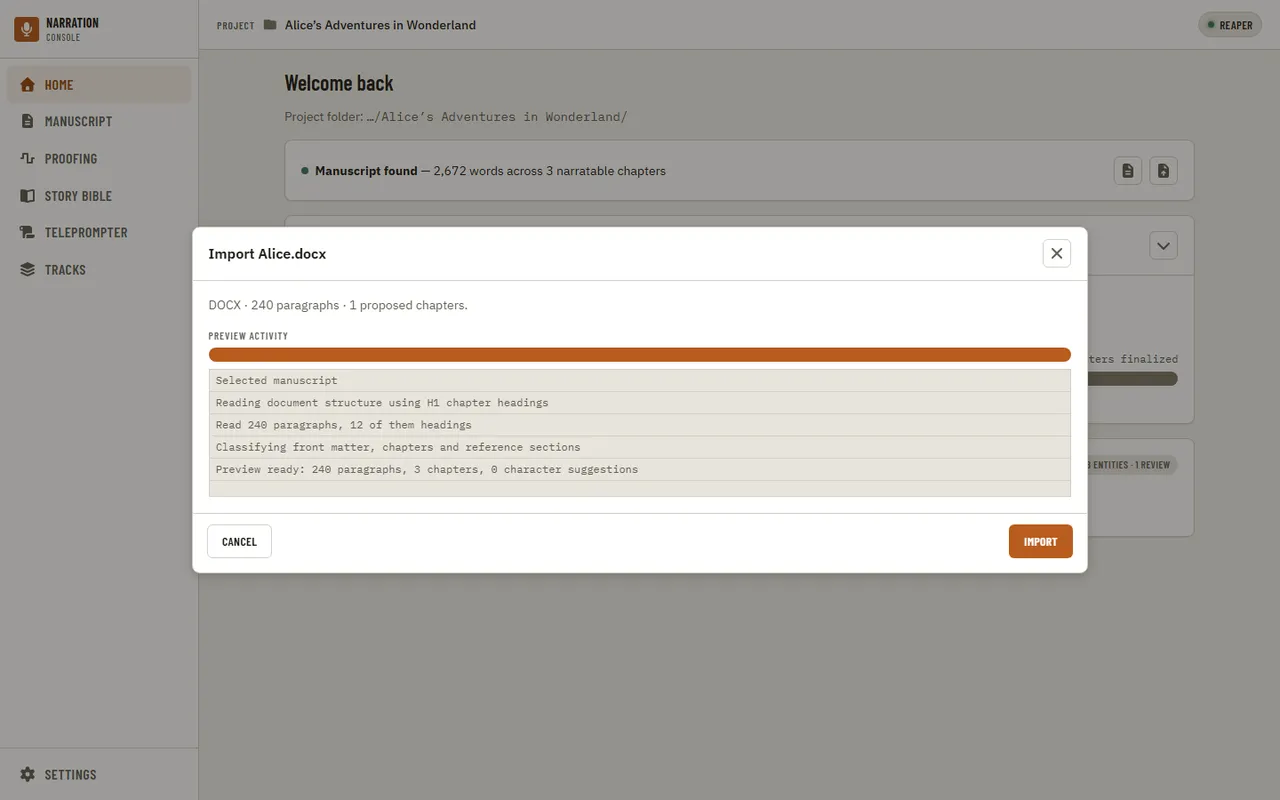
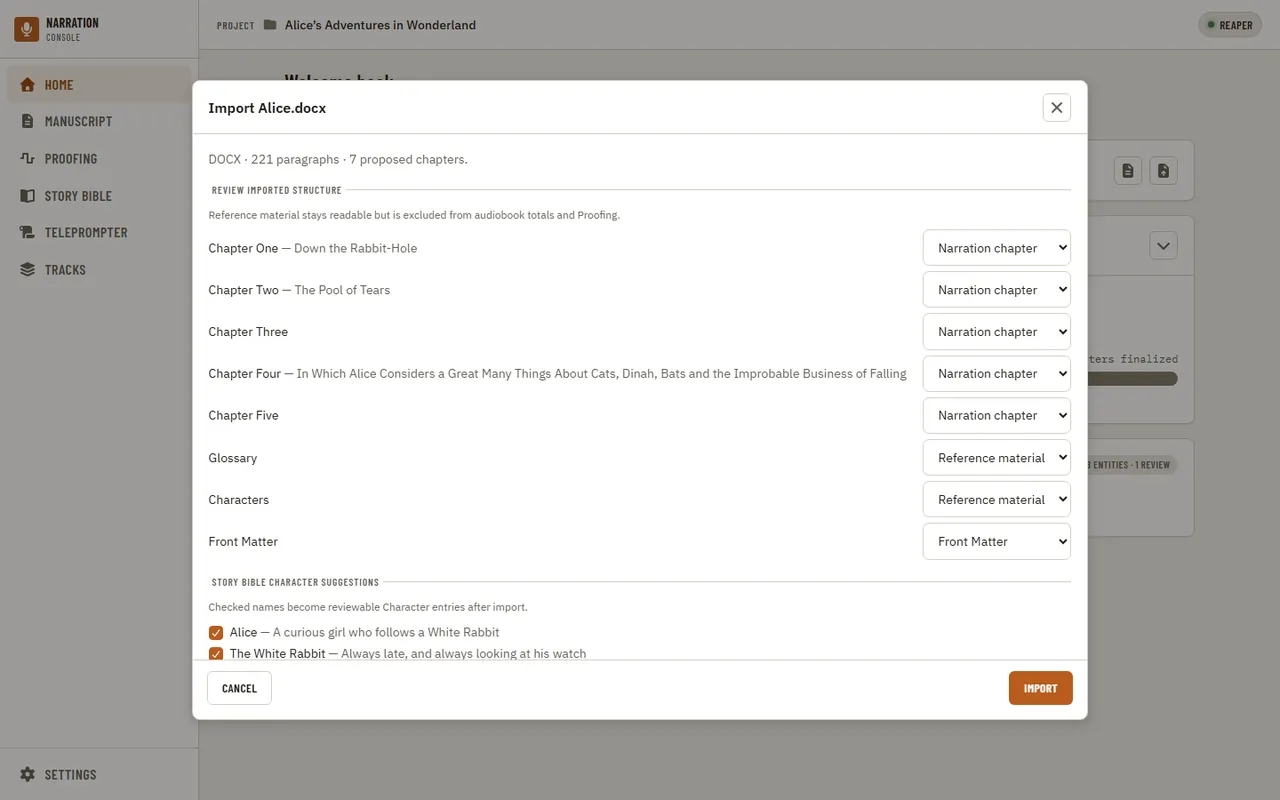
feat: show each chapter's subtitle in the import review (import review p2)
The review listed "Chapter One" for a heading that reads "CHAPTER ONE / Bad Ideas Look
Great in Neon", so the narrator could not confirm the title and subtitle split.
DraftSection now carries the subtitle of the first paragraph of the section, which is
what the written chapter gets, and the review shows it after the title, in the title
attribute and in the accessible name of the row's select.

The field is additive (omitted when empty), so hostAPIVersion is unchanged. A long
subtitle pushed the select out of the dialog because a fieldset does not shrink below
its content: both fieldsets are now min-w-0 so the row truncates.

Amends Phase 5 of the briefs PRD: display ships here, only the override stays gated.

diff --git a/apps/ui/src/components/home/ImportReview.tsx b/apps/ui/src/components/home/ImportReview.tsx
@@ -1,4 +1,4 @@
-import type { ManuscriptContentKind, ManuscriptImportPreview, ManuscriptImportSelection, WorkJob } from '../../types';
+import type { ManuscriptContentKind, ManuscriptImportPreview, ManuscriptImportSection, ManuscriptImportSelection, WorkJob } from '../../types';
 import { Checkbox } from '../primitives/Checkbox';
 import { Select } from '../primitives/Select';
 
@@ -10,6 +10,11 @@ const SECTION_KIND_OPTIONS = [
 
 const LABEL_CLASSES = "font-['Barlow_Condensed',sans-serif] text-[0.72rem] font-semibold tracking-[0.08em] text-[var(--text-muted)] uppercase";
 const LEGEND_CLASSES = `px-1 ${LABEL_CLASSES}`;
+
+// The title and, when the heading had one, the subtitle, the way the reader writes them ("Chapter One — Down the Rabbit-Hole").
+function sectionName(section: ManuscriptImportSection): string {
+  return section.subtitle ? `${section.title} — ${section.subtitle}` : section.title;
+}
 
 type ImportReviewProps = {
   preview: ManuscriptImportPreview;
@@ -44,7 +49,7 @@ export function ImportReview({ preview, job, selection, onSelectionChange, headi
       )}
       {preview.format === 'pdf' && preview.chapterTitles.length > 0 && <p className="mt-3 text-xs">Detected chapters: {preview.chapterTitles.join(' · ')}</p>}
       {sections.length > 0 && (
-        <fieldset className="mt-4 border-t pt-3" style={{ borderColor: 'var(--border)' }}>
+        <fieldset className="mt-4 min-w-0 border-t pt-3" style={{ borderColor: 'var(--border)' }}>
           <legend className={LEGEND_CLASSES}>Review imported structure</legend>
           <p className="mb-2 text-xs" style={{ color: 'var(--text-muted)' }}>
             Reference material stays readable but is excluded from audiobook totals and Proofing.
@@ -52,9 +57,12 @@ export function ImportReview({ preview, job, selection, onSelectionChange, headi
           <div className="space-y-1.5">
             {sections.map((section) => (
               <label key={section.id} className="flex items-center justify-between gap-3 text-sm">
-                <span className="min-w-0 truncate">{section.title}</span>
+                <span className="min-w-0 truncate" title={sectionName(section)}>
+                  {section.title}
+                  {section.subtitle && <span style={{ color: 'var(--text-muted)' }}> — {section.subtitle}</span>}
+                </span>
                 <Select
-                  label={`${section.title} content type`}
+                  label={`${sectionName(section)} content type`}
                   className="flex-none"
                   value={selection.sectionKinds?.[section.id] ?? section.contentKind}
                   options={SECTION_KIND_OPTIONS}
@@ -68,7 +76,7 @@ export function ImportReview({ preview, job, selection, onSelectionChange, headi
         </fieldset>
       )}
       {candidates.length > 0 && (
-        <fieldset className="mt-4 border-t pt-3" style={{ borderColor: 'var(--border)' }}>
+        <fieldset className="mt-4 min-w-0 border-t pt-3" style={{ borderColor: 'var(--border)' }}>
           <legend className={LEGEND_CLASSES}>Story Bible character suggestions</legend>
           <p className="mb-2 text-xs" style={{ color: 'var(--text-muted)' }}>
             Checked names become reviewable Character entries after import.

diff --git a/apps/ui/src/components/home/Home.test.tsx b/apps/ui/src/components/home/Home.test.tsx
@@ -33,7 +33,7 @@ describe('the import review dialog, as the narrator meets it', () => {
     const { dialog } = await openReview();
     expect(dialog.getByText(/^DOCX · 221 paragraphs · /)).toBeTruthy();
     const kinds = (title: string) => (dialog.getByRole('combobox', { name: `${title} content type` }) as HTMLSelectElement).value;
-    expect(kinds('Chapter One')).toBe('narration');
+    expect(kinds('Chapter One — Down the Rabbit-Hole')).toBe('narration');
     expect(kinds('Characters')).toBe('reference');
     expect(kinds('Glossary')).toBe('reference');
     expect(kinds('Front Matter')).toBe('opening');
@@ -42,7 +42,7 @@ describe('the import review dialog, as the narrator meets it', () => {
 
   it('offers the three kinds a section can be, by their names in the reader', async () => {
     const { dialog } = await openReview();
-    const options = within(dialog.getByRole('combobox', { name: 'Chapter One content type' })).getAllByRole('option');
+    const options = within(dialog.getByRole('combobox', { name: 'Chapter One — Down the Rabbit-Hole content type' })).getAllByRole('option');
     expect(options.map((option) => option.textContent)).toEqual(['Narration chapter', 'Front Matter', 'Reference material']);
   });
 
@@ -139,5 +139,26 @@ describe('the import review dialog, as the narrator meets it', () => {
     fireEvent.click(dialog.getByRole('button', { name: 'Cancel' }));
     await waitFor(() => expect(screen.queryByRole('alertdialog')).toBeNull());
     expect(cancel).toHaveBeenCalledWith('mock-import');
+  });
+});
+
+describe('the subtitle of each chapter in the review', () => {
+  it('shows the subtitle of a chapter after its title, and only its title when the heading had none', async () => {
+    const { dialog } = await openReview();
+    expect(dialog.getByText('Chapter One').textContent).toBe('Chapter One — Down the Rabbit-Hole');
+    expect(dialog.getByText('Chapter Two').textContent).toBe('Chapter Two — The Pool of Tears');
+    expect(dialog.getByText('Chapter Three').textContent).toBe('Chapter Three');
+  });
+
+  it('keeps the whole title and subtitle in the title attribute of the row, for a name cut short', async () => {
+    const { dialog } = await openReview();
+    expect(dialog.getByText('Chapter One').getAttribute('title')).toBe('Chapter One — Down the Rabbit-Hole');
+    expect(dialog.getByText('Chapter Three').getAttribute('title')).toBe('Chapter Three');
+  });
+
+  it('names the select of a row for the subtitle too, so two chapters with one title can be told apart', async () => {
+    const { dialog } = await openReview();
+    expect(dialog.getByRole('combobox', { name: 'Chapter Two — The Pool of Tears content type' })).toBeTruthy();
+    expect(dialog.getByRole('combobox', { name: 'Chapter Three content type' })).toBeTruthy();
   });
 });

diff --git a/apps/ui/src/api/mockImportPreview.ts b/apps/ui/src/api/mockImportPreview.ts
@@ -7,10 +7,16 @@ export type MockImportKind = 'docx' | 'markdown';
 // are in the order the host sends them: the titles the parser read come first, in document order, and "Front Matter" (the
 // paragraphs before the first heading) is added after them, so it is last (apps/desktop/internal/importer/model.go, newDraft).
 const SECTIONS: readonly ManuscriptImportSection[] = [
-  { id: 'section-0001', title: 'Chapter One', contentKind: 'narration', paragraphCount: 42 },
-  { id: 'section-0002', title: 'Chapter Two', contentKind: 'narration', paragraphCount: 38 },
+  { id: 'section-0001', title: 'Chapter One', subtitle: 'Down the Rabbit-Hole', contentKind: 'narration', paragraphCount: 42 },
+  { id: 'section-0002', title: 'Chapter Two', subtitle: 'The Pool of Tears', contentKind: 'narration', paragraphCount: 38 },
   { id: 'section-0003', title: 'Chapter Three', contentKind: 'narration', paragraphCount: 35 },
-  { id: 'section-0004', title: 'Chapter Four', contentKind: 'narration', paragraphCount: 40 },
+  {
+    id: 'section-0004',
+    title: 'Chapter Four',
+    subtitle: 'In Which Alice Considers a Great Many Things About Cats, Dinah, Bats and the Improbable Business of Falling',
+    contentKind: 'narration',
+    paragraphCount: 40,
+  },
   { id: 'section-0005', title: 'Chapter Five', contentKind: 'narration', paragraphCount: 45 },
   { id: 'section-0006', title: 'Glossary', contentKind: 'reference', paragraphCount: 12 },
   { id: 'section-0007', title: 'Characters', contentKind: 'reference', paragraphCount: 6 },

diff --git a/apps/ui/src/api/contracts/manuscript.ts b/apps/ui/src/api/contracts/manuscript.ts
@@ -54,6 +54,8 @@ export type SearchHit = { chapter: string; chapterId?: string; paragraph: number
 export type ManuscriptImportSection = {
   id: string;
   title: string;
+  /** What follows the title in the heading ("CHAPTER ONE / Bad Ideas..."): the first paragraph's, which is what the written chapter gets. Omitted when there is none. */
+  subtitle?: string;
   contentKind: ManuscriptContentKind;
   paragraphCount: number;
 };

diff --git a/apps/ui/src/api/schemas/manuscript.ts b/apps/ui/src/api/schemas/manuscript.ts
@@ -100,6 +100,7 @@ export const readerSchema = z.object({
 const importSectionSchema = z.object({
   id: z.string(),
   title: z.string(),
+  subtitle: z.string().optional(),
   contentKind: contentKindSchema,
   paragraphCount: z.number(),
 }) satisfies z.ZodType<ManuscriptImportSection>;

diff --git a/apps/desktop/internal/importer/model_test.go b/apps/desktop/internal/importer/model_test.go
@@ -1,8 +1,10 @@
 package importer
 
 import (
+	"encoding/json"
 	"os"
 	"path/filepath"
+	"strings"
 	"testing"
 )
 
@@ -79,5 +81,61 @@ func TestMarkdownContentsHeadingGetsItsOwnGroup(t *testing.T) {
 	}
 	if len(draft.ChapterTitles) != 2 {
 		t.Fatalf("expected Contents to be excluded from chapter titles, got %#v", draft.ChapterTitles)
+	}
+}
+
+func sectionNamed(t *testing.T, draft Draft, title string) DraftSection {
+	t.Helper()
+	for _, section := range draft.Sections {
+		if section.Title == title {
+			return section
+		}
+	}
+	t.Fatalf("no section %q in %#v", title, draft.Sections)
+	return DraftSection{}
+}
+
+func subtitled(chapter, subtitle, text string, index int) Paragraph {
+	return Paragraph{Chapter: chapter, ChapterSubtitle: &subtitle, Text: text, SourceIndex: index}
+}
+
+func TestNewDraftSectionSubtitleIsTheFirstParagraphsSubtitleAsTheCommitReadsIt(t *testing.T) {
+	paragraphs := []Paragraph{
+		subtitled("Chapter One", "Down the Rabbit-Hole", "First.", 0),
+		{Chapter: "Chapter Two", Text: "No subtitle here.", SourceIndex: 1},
+		// A title that repeats merges into the first section, and the first subtitle wins, as it does when the chapter is written.
+		subtitled("Chapter One", "A Later Subtitle", "Second.", 2),
+		// The first paragraph has none and a later one does: the chapter is written from the first paragraph, so it has none.
+		{Chapter: "Chapter Three", Text: "Plain.", SourceIndex: 3},
+		subtitled("Chapter Three", "The Pool of Tears", "Later.", 4),
+	}
+	draft, err := newDraft("docx", "test.docx", paragraphs, []string{"Chapter One", "Chapter Two", "Chapter Three", "Chapter Four"})
+	if err != nil {
+		t.Fatal(err)
+	}
+	for title, want := range map[string]string{
+		"Chapter One":   "Down the Rabbit-Hole",
+		"Chapter Two":   "",
+		"Chapter Three": "",
+		// A heading with no paragraphs under it has nothing to take a subtitle from.
+		"Chapter Four": "",
+	} {
+		if got := sectionNamed(t, draft, title).Subtitle; got != want {
+			t.Errorf("section %q subtitle = %q, want %q", title, got, want)
+		}
+	}
+}
+
+func TestNewDraftSectionWithoutSubtitleSendsNoSubtitleField(t *testing.T) {
+	draft, err := newDraft("docx", "test.docx", []Paragraph{{Chapter: "Chapter One", Text: "Text.", SourceIndex: 0}}, []string{"Chapter One"})
+	if err != nil {
+		t.Fatal(err)
+	}
+	encoded, err := json.Marshal(draft.Sections[0])
+	if err != nil {
+		t.Fatal(err)
+	}
+	if strings.Contains(string(encoded), "subtitle") {
+		t.Fatalf("a section without a subtitle must not carry the field, got %s", encoded)
 	}
 }

diff --git a/apps/desktop/internal/importer/model.go b/apps/desktop/internal/importer/model.go
@@ -18,8 +18,11 @@ type Paragraph struct {
 }
 
 type DraftSection struct {
-	ID             string `json:"id"`
-	Title          string `json:"title"`
+	ID    string `json:"id"`
+	Title string `json:"title"`
+	// Subtitle is the first paragraph's chapter subtitle, the one the chapter takes when the manuscript is written
+	// (manuscript.canonicalize), so the review shows what the chapter will be called. Empty when the heading had none.
+	Subtitle       string `json:"subtitle,omitempty"`
 	ContentKind    string `json:"contentKind"`
 	ParagraphCount int    `json:"paragraphCount"`
 }
@@ -143,6 +146,19 @@ func characterLine(value string) (string, string, bool) {
 	return name, description, looksLikeName(name)
 }
 
+// firstSubtitle is the subtitle of the first of the given paragraphs, or "" when it has none or there are no paragraphs. It is what the
+// chapter takes when the manuscript is written (manuscript.canonicalize reads the paragraph that starts the chapter), so a repeated
+// title, which is merged into one section, shows the first heading's subtitle and a heading with no text under it has none.
+func firstSubtitle(paragraphs []Paragraph, indexes []int) string {
+	if len(indexes) == 0 {
+		return ""
+	}
+	if subtitle := paragraphs[indexes[0]].ChapterSubtitle; subtitle != nil {
+		return *subtitle
+	}
+	return ""
+}
+
 func newDraft(format, sourceName string, paragraphs []Paragraph, titles []string) (Draft, error) {
 	if len(paragraphs) == 0 {
 		return Draft{}, &Error{"The manuscript has no readable text paragraphs."}
@@ -207,7 +223,7 @@ func newDraft(format, sourceName string, paragraphs []Paragraph, titles []string
 			}
 			candidates = append(candidates, CharacterCandidate{ID: fmt.Sprintf("candidate-%s-%03d", id, len(candidates)+1), Name: group.title, Description: description, SourceSectionID: id})
 		}
-		sections = append(sections, DraftSection{ID: id, Title: group.title, ContentKind: contentKind, ParagraphCount: len(group.indexes)})
+		sections = append(sections, DraftSection{ID: id, Title: group.title, Subtitle: firstSubtitle(paragraphs, group.indexes), ContentKind: contentKind, ParagraphCount: len(group.indexes)})
 	}
 	return Draft{Format: format, SourceName: sourceName, Paragraphs: paragraphs, Sections: sections, CharacterCandidates: candidates, ChapterTitles: titles}, nil
 }

diff --git a/apps/desktop/internal/manuscript/service_test.go b/apps/desktop/internal/manuscript/service_test.go
@@ -7,6 +7,7 @@ import (
 	"testing"
 	"time"
 
+	"github.com/countrymanprime/narration-utils/shell/internal/importer"
 	"github.com/countrymanprime/narration-utils/shell/internal/layout"
 )
 
@@ -168,5 +169,42 @@ func TestReplacementRequiresExplicitConfirmation(t *testing.T) {
 	job, err := service.Commit(second.ID, false, nil)
 	if err != nil || !job.RequiresReset {
 		t.Fatalf("expected reset confirmation, got %#v, %v", job, err)
+	}
+}
+
+// The review shows each section's subtitle, and the chapter is written from the paragraph that starts it: the two must agree, or the
+// review would promise a name the reader never shows. A repeated title merges, and the first heading's subtitle wins in both.
+func TestPreviewSectionSubtitlesAreTheSubtitlesTheWrittenChaptersGet(t *testing.T) {
+	project := t.TempDir()
+	source := filepath.Join(project, "book.md")
+	content := "# Chapter One<br>Down the Rabbit-Hole\nText.\n\n# Chapter Two\nMore.\n\n# Chapter One<br>A Later Subtitle\nLater.\n"
+	if err := os.WriteFile(source, []byte(content), 0o600); err != nil {
+		t.Fatal(err)
+	}
+	service := New(project)
+	job := service.Begin(source)
+	preview, err := service.Preview(job.ID, 1)
+	if err != nil {
+		t.Fatal(err)
+	}
+	sections, ok := preview.Preview["sections"].([]importer.DraftSection)
+	if !ok || len(sections) != 2 {
+		t.Fatalf("preview sections = %#v", preview.Preview["sections"])
+	}
+	if _, err := service.Commit(job.ID, false, nil); err != nil {
+		t.Fatal(err)
+	}
+	chapters, err := service.Chapters()
+	if err != nil {
+		t.Fatal(err)
+	}
+	for index, section := range sections {
+		written, _ := chapters[index]["subtitle"].(string)
+		if chapters[index]["title"] != section.Title || written != section.Subtitle {
+			t.Errorf("section %q shows subtitle %q but the chapter is written with %q", section.Title, section.Subtitle, written)
+		}
+	}
+	if sections[0].Subtitle != "Down the Rabbit-Hole" || sections[1].Subtitle != "" {
+		t.Errorf("subtitles = %q and %q", sections[0].Subtitle, sections[1].Subtitle)
 	}
 }

diff --git a/apps/desktop/internal/importer/docx_test.go b/apps/desktop/internal/importer/docx_test.go
@@ -193,3 +193,16 @@ func TestDocxCharacterStylesMapToFormatting(t *testing.T) {
 		t.Fatalf("spans = %#v", spans)
 	}
 }
+
+func TestDocxSoftBreakSubtitleReachesTheSectionForTheReview(t *testing.T) {
+	draft := importDocx(t, wordParagraph("Heading1", wordRun("CHAPTER ONE"), softBreak, wordRun("Bad Ideas Look Great in Neon"))+
+		wordParagraph("", wordRun("The first line."))+
+		wordParagraph("Heading1", wordRun("CHAPTER TWO"))+
+		wordParagraph("", wordRun("Another line.")))
+	if got := sectionNamed(t, draft, "CHAPTER ONE").Subtitle; got != "Bad Ideas Look Great in Neon" {
+		t.Fatalf("CHAPTER ONE subtitle = %q", got)
+	}
+	if got := sectionNamed(t, draft, "CHAPTER TWO").Subtitle; got != "" {
+		t.Fatalf("CHAPTER TWO has no subtitle, got %q", got)
+	}
+}

diff --git a/apps/desktop/internal/manuscript/contract_test.go b/apps/desktop/internal/manuscript/contract_test.go
@@ -10,7 +10,7 @@ import (
 
 // The payloads the manuscript bindings send to the UI (ADR 0069), pinned for its contract tests. They come from a real import of
 // a small Markdown file through the real service; random ids and timestamps are named or fixed by contractfile.Stabilize.
-const contractSource = "# Chapter One\nRoses are *red*,  \nviolets are **blue**.\n\nA second paragraph of the first chapter.\n\n# Chapter Two\nA short line in the second chapter.\n"
+const contractSource = "# Chapter One<br>Down the Rabbit-Hole\nRoses are *red*,  \nviolets are **blue**.\n\nA second paragraph of the first chapter.\n\n# Chapter Two\nA short line in the second chapter.\n"
 
 func pin(t *testing.T, name string, value any) {
 	t.Helper()

diff --git a/apps/desktop/internal/importer/markdown_test.go b/apps/desktop/internal/importer/markdown_test.go
@@ -93,3 +93,13 @@ func TestMarkdownHeadingBrSplitsSubtitleAndStripsMarkers(t *testing.T) {
 		t.Fatalf("got chapter %q subtitle %q", paragraph.Chapter, subtitleOf(paragraph))
 	}
 }
+
+func TestMarkdownHeadingSubtitleReachesTheSectionForTheReview(t *testing.T) {
+	draft := importMarkdown(t, "# **CHAPTER ONE**<br>Bad Ideas Look Great in Neon\nBody.\n\n# CHAPTER TWO\nMore.\n")
+	if got := sectionNamed(t, draft, "CHAPTER ONE").Subtitle; got != "Bad Ideas Look Great in Neon" {
+		t.Fatalf("CHAPTER ONE subtitle = %q", got)
+	}
+	if got := sectionNamed(t, draft, "CHAPTER TWO").Subtitle; got != "" {
+		t.Fatalf("CHAPTER TWO has no subtitle, got %q", got)
+	}
+}

diff --git a/docs/prds/story-bible-and-import-ux-briefs.prd.md b/docs/prds/story-bible-and-import-ux-briefs.prd.md
@@ -124,7 +124,7 @@ Deliver in value/risk order, MVP first. MVP = N (host sender, an on/off setting,
 | Should | Recorded build duration and the default decision | B |
 | Could | Host-side chaining (`buildStoryBible` parameter) | B |
 | Must | Evidence corpus of misread headings before any code | I |
-| Should | Subtitle data in the preview payload plus `subtitleOverrides` in `ManuscriptImportSelection`, applied before canonicalization | I |
+| Should | `subtitleOverrides` in `ManuscriptImportSelection`, applied before canonicalization (the subtitle in the preview payload and its display in the review were delivered by [import-review-redesign](import-review-redesign.prd.md) phase 2) | I |
 | Could | Global "second line is subtitle" default | I |
 | Won't | Other import settings not motivated by evidence | I |
 | Must | Spike: dataset, license, size, lookup engine, provisioning shape (docs plus ADR) | D |
@@ -214,9 +214,9 @@ Phases 1 to 3 (N and B) plus the three docs-only phases 4, 6 and 9 that de-risk 
 - **Success signal**: a counted list, or a recorded "no failures, defer".
 
 **Phase 5 - Import subtitle override**
-- **Note**: showing each section's subtitle in the review needs no binding change and is specified separately in [import-review-redesign.prd.md](import-review-redesign.prd.md) (Phase 2). This phase keeps only the override, still gated on Phase 4.
+- **Note**: showing each section's subtitle in the review was split out and delivered by [import-review-redesign.prd.md](import-review-redesign.prd.md) (Phase 2: `DraftSection.subtitle`, no binding change, `hostAPIVersion` unchanged). This phase keeps only the override, still gated on Phase 4; the rows in the review already leave room for a trailing control.
 - **Goal**: correct wrong splits before commit.
-- **Scope**: subtitle in the preview payload; `subtitleOverrides`; apply in commit before canonicalization; `ManuscriptImportCommit` signature change; contract, client, mock; review UI extending the existing dialog (no second settings step); API bump.
+- **Scope**: `subtitleOverrides` (the preview payload already carries each section's `subtitle`, delivered by import-review-redesign phase 2); apply in commit before canonicalization; `ManuscriptImportCommit` signature change; contract, client, mock; review UI extending the existing dialog (no second settings step); API bump.
 - **Success signal**: each Phase 4 misread fixable; importer fixtures unchanged for correct headings.
 
 **Phase 6 - Dictionary spike**
